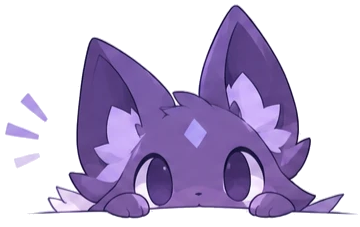
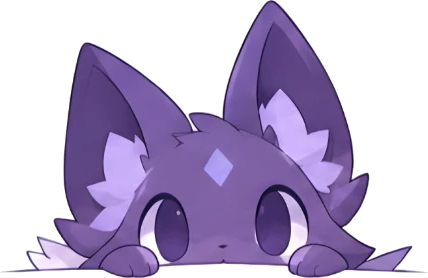
Cut the mascot from the larger sheet: smoother edges, solid eye whites

diff --git a/.agents/decisions.md b/.agents/decisions.md
@@ -765,7 +765,7 @@ Design: [Agent Note](notes/implemented/2026-11-11-proposals.md).
 | Settings window | Frameless, its own title and ✕ (dragged by its title row); sections down the left (General, Spending, Permissions, Instructions, Memory, Tool servers) and rows with a name and a one-line explanation on the left and the control on the right. Memory and Tool servers are the old dialogs embedded as pages; the profile menu's Memory and Tool servers open Settings at them. Save and Cancel stay |
 | Status | No status line under the message box: Stop is the send button, working sub-sessions are dots in the sidebar, notices say the rest. A duty's next check-in (or that it is paused) is a small note beside the title |
 | Start | The window opens maximized |
-| Mascot | A new chat shows the owner's mascot peeking (`desktop/assets/mascot-peek.png`, 200 px wide, scaled for the screen's density), in place of the K avatar. Cut from the owner's character sheet: the pose cropped, the white around it made transparent by filling in from the edges (so its white fur stays), and the edge pixels un-mixed from the white: against the outline where one is next to them, softly elsewhere, so no light halo is left on a dark background |
+| Mascot | A new chat shows the owner's mascot peeking (`desktop/assets/mascot-peek.png`, 200 px wide, scaled for the screen's density), in place of the K avatar. Cut from the owner's larger character sheet, which came with a transparent background: the pose cropped and only the mascot kept (its biggest connected shape), then laid on white and cut again so the eye whites stay solid and the edges are un-mixed from white (against the outline where one is next to them), leaving no light rim on a dark background |
 | Folder picker | In the middle of a new chat, under its greeting, as an outlined button with the folder icon; only before its first message (and only when the Tools take a folder): the folder's name; its menu lists that folder (checked) and those of recent conversations, newest first, six in all, then Choose folder…. Picking one starts the new chat there |
 | Sidebar | Starts 320 px wide at 100% zoom, scaled with it; the divider can be dragged, and the width is not saved |
 
